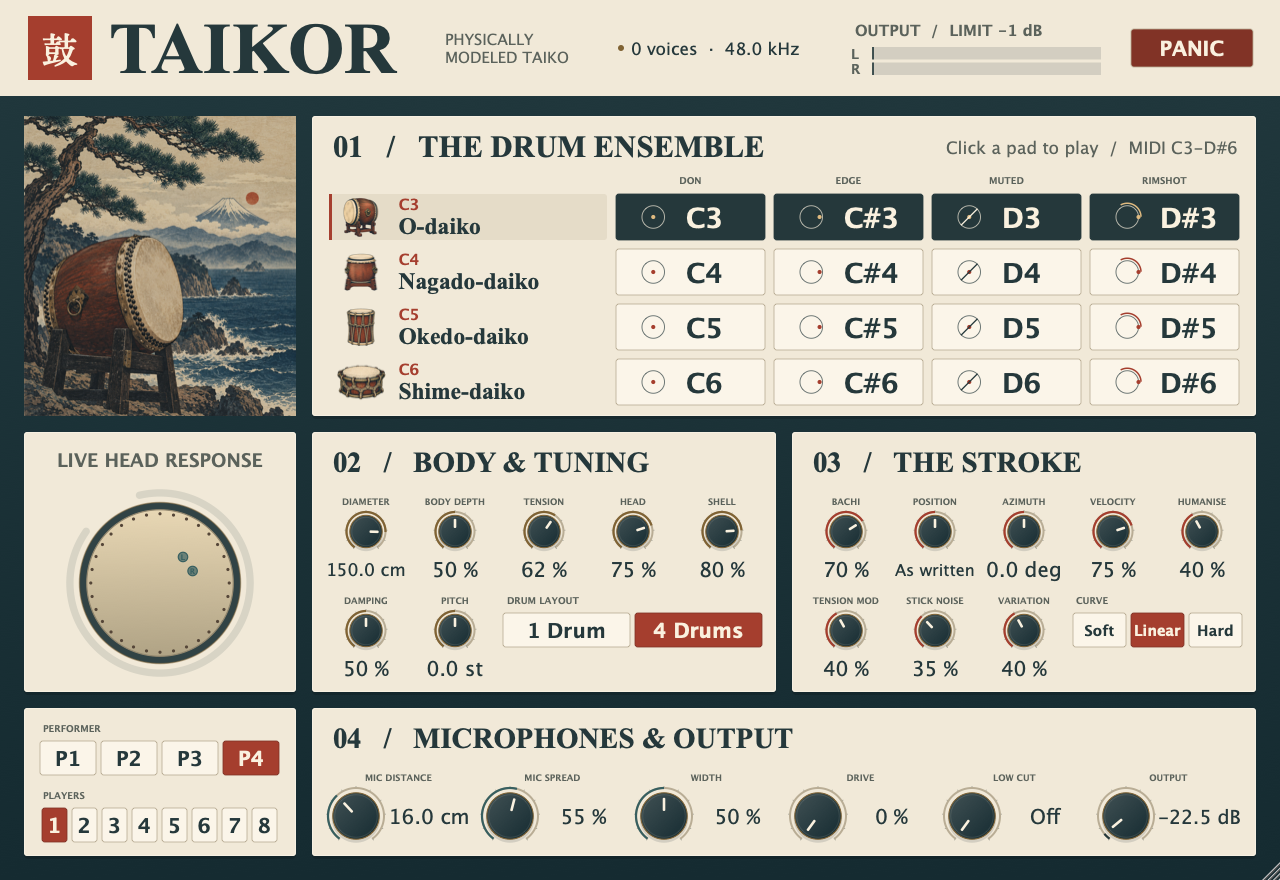
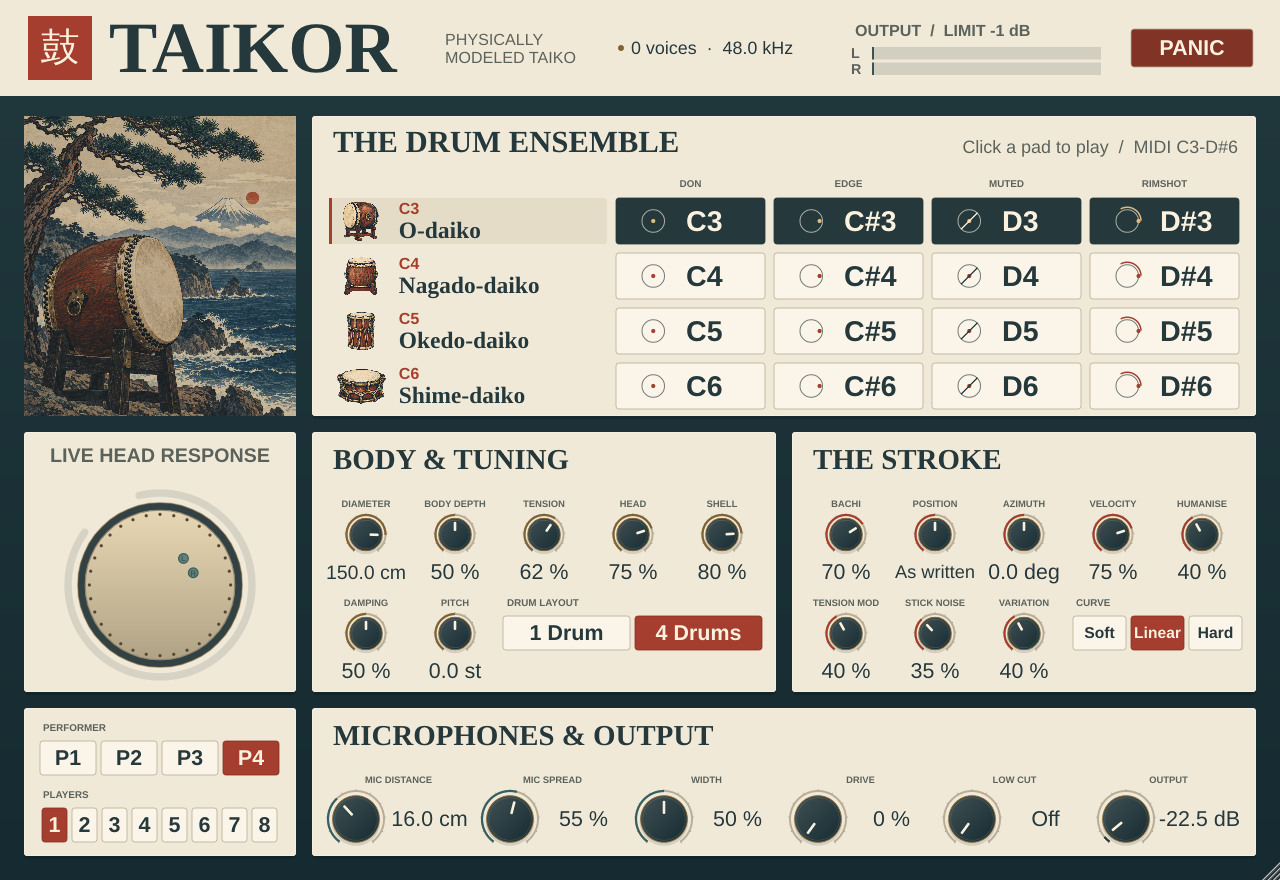
Drop the numbers from the panel's section headers and bind them to their decks
A four-deck panel is not a sequence, so numbering it said nothing the layout
did not already say. Each header now sits higher in its panel with more air
beneath it, so a heading reads as belonging to the controls under it rather
than floating between decks. Screenshot refreshed.

Claude-Session: https://claude.ai/code/session_01D3PMbTv11BQjQRiX36EJtT

diff --git a/Source/PluginEditor.cpp b/Source/PluginEditor.cpp
@@ -1099,7 +1099,7 @@ TaikorAudioProcessorEditor::TaikorAudioProcessorEditor (TaikorAudioProcessor& pr
     headCaption.setJustificationType (juce::Justification::centred);
     addAndMakeVisible (headCaption);
 
-    gridCaption.setText ("01   /   THE DRUM ENSEMBLE", juce::dontSendNotification);
+    gridCaption.setText ("THE DRUM ENSEMBLE", juce::dontSendNotification);
     gridCaption.setFont (displayFont (19.0f, juce::Font::bold));
     gridCaption.setColour (juce::Label::textColourId, textColour);
     gridCaption.setJustificationType (juce::Justification::centredLeft);
@@ -1158,9 +1158,9 @@ TaikorAudioProcessorEditor::TaikorAudioProcessorEditor (TaikorAudioProcessor& pr
         addAndMakeVisible (label);
     };
 
-    deckLabel (drumDeckLabel, "02   /   BODY & TUNING");
-    deckLabel (strokeDeckLabel, "03   /   THE STROKE");
-    deckLabel (microphoneDeckLabel, "04   /   MICROPHONES & OUTPUT");
+    deckLabel (drumDeckLabel, "BODY & TUNING");
+    deckLabel (strokeDeckLabel, "THE STROKE");
+    deckLabel (microphoneDeckLabel, "MICROPHONES & OUTPUT");
 
     namespace ids = taikor::parameters;
     addKnob (sizeKnob, ids::headDiameter,
@@ -1398,9 +1398,10 @@ void TaikorAudioProcessorEditor::resized()
     meter.setBounds (rect (850, 44, 252, 34));
     panicButton.setBounds (rect (1130, 28, 124, 40));
 
-    auto grid = areas.gridArea.reduced (px (16), px (10));
+    auto grid = areas.gridArea.reduced (px (16), px (6));
     gridCaption.setBounds (grid.removeFromTop (px (40)).withWidth (px (520)));
     gridCaption.setFont (displayFont (34.0f * scale, juce::Font::bold));
+    grid.removeFromTop (px (8));
     const int gap = px (7);
     const int rowHeaderWidth = px (280);
     auto headings = grid.removeFromTop (px (27));
@@ -1426,10 +1427,10 @@ void TaikorAudioProcessorEditor::resized()
                 cells.cellSize, line.getHeight());
     }
 
-    auto head = areas.head.reduced (px (10), px (10));
+    auto head = areas.head.reduced (px (10), px (6));
     headCaption.setBounds (head.removeFromTop (px (34)));
     headCaption.setFont (controlFont (22.0f * scale, true));
-    head.removeFromTop (px (8));
+    head.removeFromTop (px (12));
     headDisplay.setBounds (head);
 
     struct Cell
@@ -1440,10 +1441,10 @@ void TaikorAudioProcessorEditor::resized()
     const auto layoutDeck = [&px, scale] (juce::Rectangle<int> area, juce::Label& label,
                                           std::initializer_list<Cell> cells, int columnsCount)
     {
-        auto working = area.reduced (px (12), px (9));
+        auto working = area.reduced (px (12), px (6));
         label.setBounds (working.removeFromTop (px (42)).withTrimmedLeft (px (4)));
         label.setFont (displayFont (32.0f * scale, juce::Font::bold));
-        working.removeFromTop (px (10));
+        working.removeFromTop (px (16));
         int totalColumns = 0;
         for (const auto& cell : cells)
             totalColumns += cell.span;
